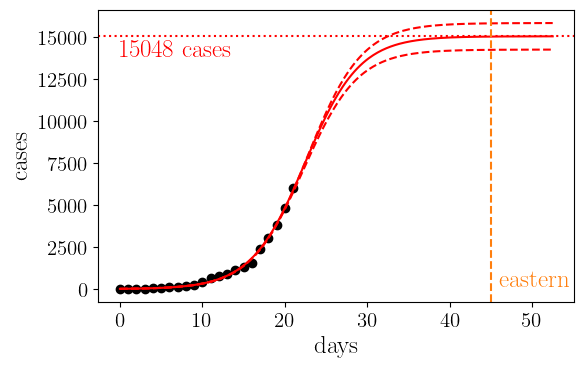
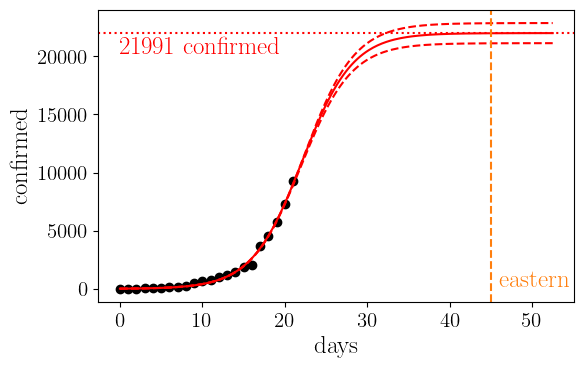
Implement in fit_data

diff --git a/fit_data.py b/fit_data.py
@@ -5,32 +5,35 @@ import matplotlib as mpl
 from scipy.optimize import curve_fit
 import models
 from latex_style import with_latex
+
+from load_data import load_data
 mpl.rcParams.update(with_latex)
 
-cases = np.array([16, 18, 21, 26, 53, 66, 117, 150, 188, 240, 400, 639, 795, 902, 1139, 1296, 1567, 2369, 3062, 3795,
-                  4838, 6012])
-days = np.arange(len(cases))
+data = load_data()
 os.makedirs('img', exist_ok=True)
 
-popt, pcov = curve_fit(models.logistic_function, days, cases, p0=(50000, 1e-3), sigma=np.sqrt(cases), absolute_sigma=True)
+confirmed = data.to_numpy()[34:, 0] - 16
+days = np.arange(len(confirmed))
+
+popt, pcov = curve_fit(models.logistic_function, days, confirmed, p0=(50000, 1e-3), sigma=np.sqrt(confirmed), absolute_sigma=True)
 perr = np.sqrt(np.diag(pcov))
-plt.scatter(days, cases, marker='o', color='k', label='germany')
+plt.scatter(days, confirmed, marker='o', color='k', label='germany')
 x = np.linspace(days[0], days[-1]*2.5, 300)
 plt.plot(x, models.logistic_function(x, *popt), color='red')
 plt.plot(x, models.logistic_function(x, popt[0]+perr[0], popt[1]-perr[1]), color='red', ls='dashed')
 plt.plot(x, models.logistic_function(x, popt[0]-perr[0], popt[1]+perr[1]), color='red', ls='dashed')
 plt.axhline(popt[0], color='red', ls='dotted')
-plt.text(days[int(np.rint(0.02*len(days)))], 0.92*popt[0], s='%i cases' % popt[0], color='red')
+plt.text(days[int(np.rint(0.02*len(days)))], 0.92*popt[0], s='%i confirmed' % popt[0], color='red')
 plt.axvline(45, color='C1', ls='dashed')
 plt.text(46, 0.01*popt[0], s='eastern', color='C1')
 plt.xlabel('days')
-plt.ylabel('cases')
+plt.ylabel('confirmed')
 plt.savefig('img/fit_cases.png', bbox_inches='tight')
 plt.close()
 
-cases_day = np.diff(cases)
-plt.scatter(days[1:], cases_day, marker='o', color='k', label='germany')
+confirmed_day = np.diff(confirmed)
+plt.scatter(days[1:], confirmed_day, marker='o', color='k', label='germany')
 plt.xlabel('days')
-plt.ylabel('cases / day')
+plt.ylabel('confirmed / day')
 plt.savefig('img/cases_day.png', bbox_inches='tight')
 plt.close()
